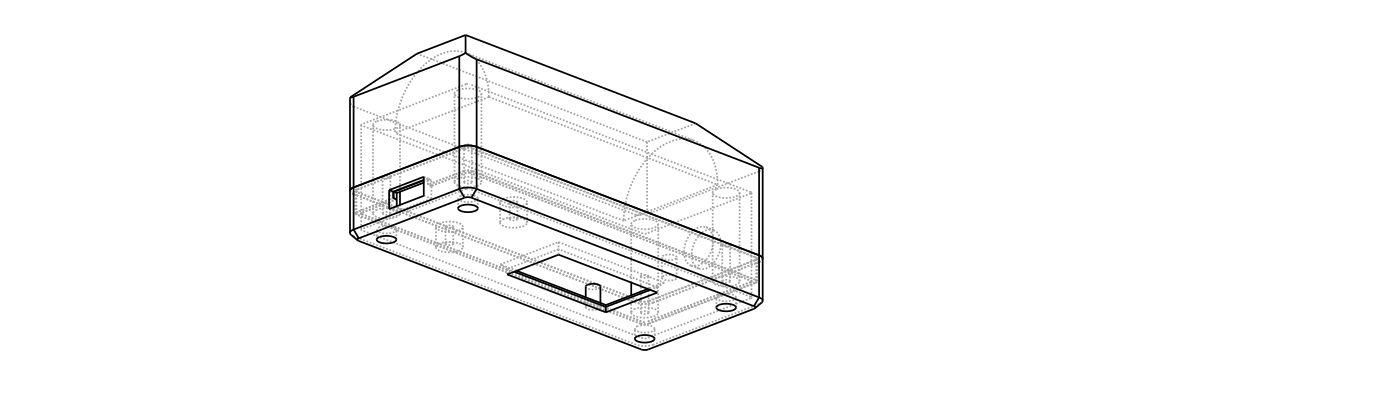
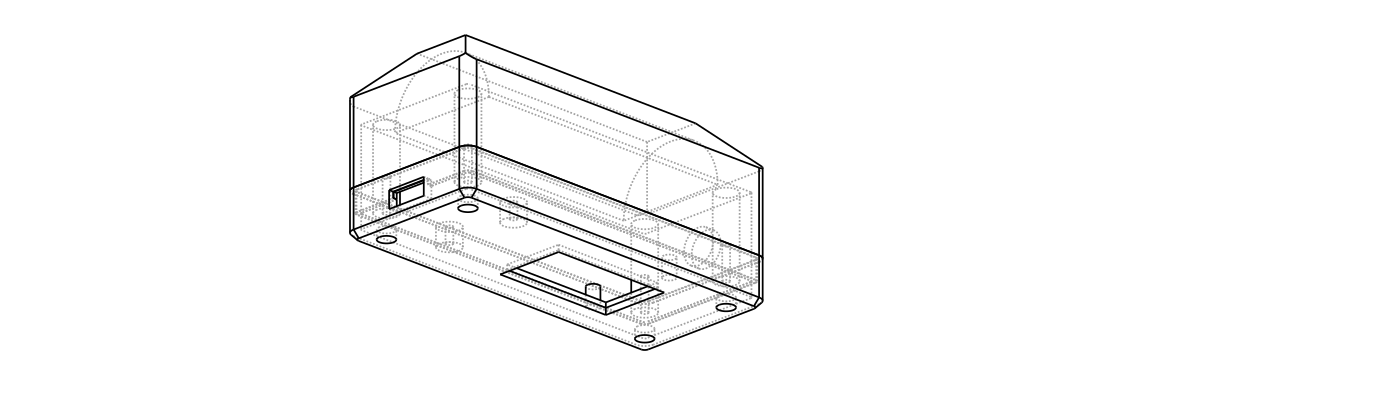
Move the display cutout's bevel to the face side, via .chamfer()
The bevel was on the inside face, which made it a 45 degree overhang
bridging inward across the opening when the plate is printed window-up.
On the face side the hole only ever widens with height, so every layer
is supported by the one below and there is no overhang at all.

Also switches from shaping the cutter to using CadQuery's .chamfer() on
the finished top edge, as suggested. The cutter is now a plain
rectangular prism, so the aperture is exactly OLED_W x OLED_H by
construction rather than by arithmetic on a loft. .faces(">Z").edges()
would also catch the plate's outer perimeter, so the window's four
edges are isolated with a BoxSelector.

Aperture is 28.48 x 14.84mm at the inside face, opening to
30.48 x 16.84mm at the visible surface, with a 1.2mm straight land
behind it. Angle is 45 degrees, matching FACE_CHAMFER.

verify.py now checks the aperture at the inside face and the bevelled
opening at the outer face (the reverse of before), and asserts the
opening widens monotonically through the wall so the no-overhang
property is enforced rather than assumed.

Changed region(s): [[0.3379, 0.5881, 0.4914, 0.7429]]

diff --git a/verify.py b/verify.py
@@ -345,9 +345,9 @@ for (x, y) in case.screw_positions:
 
 print("Checking the face plate chamfers...")
 top_wall = case.PLATE_DEPTH - case.PLATE_INNER_H
-check("window flare leaves a straight land",
+check("window bevel leaves a straight land",
       case.WINDOW_CHAMFER < top_wall,
-      f"flare {case.WINDOW_CHAMFER:.2f} of {top_wall:.2f} mm wall, "
+      f"bevel {case.WINDOW_CHAMFER:.2f} of {top_wall:.2f} mm wall, "
       f"land {top_wall - case.WINDOW_CHAMFER:.2f} mm")
 
 # Measure the real opening at the outer face and at the ceiling
@@ -356,38 +356,64 @@ def _window_opening(z, t=0.02):
         cq.Workplane("XY")
         .workplane(offset=z)
         .center(case.OLED_CENTER_X, case.OLED_CENTER_Y)
-        .box(case.OLED_W + 20, case.OLED_H + 8, t, centered=(True, True, False))
+        .box(case.OLED_W + 20, case.OLED_H + 12, t, centered=(True, True, False))
     )
     hole = slab.cut(case.build_plate())
     return hole.val().BoundingBox() if volume(hole) > 0 else None
 
-_outer = _window_opening(case.PLATE_DEPTH - 0.03)
-check("window is nominal size at the outer face",
-      _outer is not None and abs(_outer.xlen - case.OLED_W) <= 0.05
-      and abs(_outer.ylen - case.OLED_H) <= 0.05,
-      f"{_outer.xlen:.2f} x {_outer.ylen:.2f} vs "
-      f"{case.OLED_W:.2f} x {case.OLED_H:.2f}" if _outer else "no opening")
-
+# The bevel is on the face side, so the aperture is the *inside* face and
+# the opening only ever widens toward the viewer.
 _inner = _window_opening(case.PLATE_INNER_H + 0.01)
+check("aperture is nominal at the inside face",
+      _inner is not None and abs(_inner.xlen - case.OLED_W) <= 0.05
+      and abs(_inner.ylen - case.OLED_H) <= 0.05,
+      f"{_inner.xlen:.2f} x {_inner.ylen:.2f} vs "
+      f"{case.OLED_W:.2f} x {case.OLED_H:.2f}" if _inner else "no opening")
+
+_outer = _window_opening(case.PLATE_DEPTH - 0.03)
 _want_w = case.OLED_W + 2 * case.WINDOW_CHAMFER
 _want_h = case.OLED_H + 2 * case.WINDOW_CHAMFER
-check("window is flared at the inside face",
-      _inner is not None and abs(_inner.xlen - (_want_w - 0.02)) <= 0.05
-      and abs(_inner.ylen - (_want_h - 0.02)) <= 0.05,
-      f"{_inner.xlen:.2f} x {_inner.ylen:.2f} vs "
-      f"{_want_w:.2f} x {_want_h:.2f}" if _inner else "no opening")
+check("window is bevelled open at the face",
+      _outer is not None and abs(_outer.xlen - (_want_w - 0.02)) <= 0.05
+      and abs(_outer.ylen - (_want_h - 0.02)) <= 0.05,
+      f"{_outer.xlen:.2f} x {_outer.ylen:.2f} vs "
+      f"{_want_w:.2f} x {_want_h:.2f}" if _outer else "no opening")
 
-# The flare must not undercut the OLED's own active area
-check("flare stays clear of the active area",
+# Printed window-up the hole must never narrow with height, or the bevel
+# would be an overhang. This is the property the face-side bevel buys us.
+_prev = None
+_monotonic = True
+for i in range(21):
+    _z = case.PLATE_INNER_H + (top_wall - 0.02) * i / 20.0
+    _bb = _window_opening(_z)
+    if _bb is None:
+        _monotonic = False
+        break
+    if _prev is not None and (_bb.xlen < _prev[0] - 1e-6 or _bb.ylen < _prev[1] - 1e-6):
+        _monotonic = False
+        break
+    _prev = (_bb.xlen, _bb.ylen)
+check("window never narrows with height (no overhang)", _monotonic,
+      "opening widens monotonically from inside face to outer face")
+
+# The aperture must not encroach on the OLED's own active area
+check("aperture clears the active area",
       case.OLED_W - 2 * case.OLED_WINDOW_MARGIN >= case.OLED_ACTIVE_W - CLEAR_TOL,
-      f"window {case.OLED_W:.2f} vs active {case.OLED_ACTIVE_W:.2f} mm")
+      f"aperture {case.OLED_W:.2f} vs active {case.OLED_ACTIVE_W:.2f} mm")
 
-# The flare widens the hole toward the board -- it must miss the posts
-flare_hw_y = (case.OLED_H + 2 * case.WINDOW_CHAMFER) / 2
-check("window flare clears the bearing posts",
-      flare_hw_y <= case.BEAR_POST_Y - case.BEAR_POST_D / 2,
-      f"flare reaches Y {flare_hw_y:.2f}, posts start at "
+# The aperture is the widest thing the window presents to the board side
+check("window clears the bearing posts",
+      case.OLED_H / 2 <= case.BEAR_POST_Y - case.BEAR_POST_D / 2,
+      f"aperture reaches Y {case.OLED_H / 2:.2f}, posts start at "
       f"{case.BEAR_POST_Y - case.BEAR_POST_D / 2:.2f} mm")
+
+# The bevelled opening must stay on the top face, clear of the face chamfer
+_top_face_bb = case.build_plate().faces(">Z").val().BoundingBox()
+check("bevelled window stays within the top face",
+      _want_h / 2 <= _top_face_bb.ylen / 2 - CLEAR_TOL
+      and _want_w / 2 <= _top_face_bb.xlen / 2 - CLEAR_TOL,
+      f"window {_want_w:.2f} x {_want_h:.2f} within top face "
+      f"{_top_face_bb.xlen:.2f} x {_top_face_bb.ylen:.2f} mm")
 
 # Face chamfer must leave the counterbores fully on the flat top face
 top_face = case.build_plate().faces(">Z").val().BoundingBox()

diff --git a/case.py b/case.py
@@ -104,10 +104,11 @@ CORNER_FILLET = 2.5
 # --- Face plate chamfers ----------------------------------------------------
 # Break the face plate's top outer edge so the case does not read as a slab.
 FACE_CHAMFER = 1.5
-# The display cutout is flared on its *inside* face: the opening is narrowest
-# at the outer surface (crisp bezel) and widens toward the display, so the
-# panel is not vignetted at an angle. Must stay below the top wall thickness
-# or there is no straight land left at the window edge.
+# The display cutout is bevelled on its *face* side, matching FACE_CHAMFER's
+# 45 deg. The aperture stays OLED_W x OLED_H at the inside face and opens out
+# toward the viewer. Printed window-up the hole only ever widens with height,
+# so every layer is supported by the one below -- no overhang at all. Must
+# stay below the top wall thickness or no straight land is left.
 WINDOW_CHAMFER = 1.0
 
 # --- Bottom chamfer (base only) ---------------------------------------------
@@ -385,32 +386,16 @@ def end_chamfer_profile():
 
 
 def _oled_window_cutter():
-    """Display cutout, in plate-local coordinates.
-
-    A straight land through the outer part of the top wall, plus a 45 deg
-    flare on the inside face. The taper is extended below the ceiling so the
-    boolean never has to resolve a face coplanar with it, while the flare
-    still passes through exactly OLED_W + 2*WINDOW_CHAMFER at the ceiling.
-    """
-    c = WINDOW_CHAMFER
-    ext = 0.5
-    flare = (
+    """Display cutout, in plate-local coordinates: a plain rectangular hole
+    through the top wall. The bevel is added afterwards by chamfering the
+    resulting top edge, not by shaping this cutter."""
+    return (
         cq.Workplane("XY")
-        .workplane(offset=PLATE_INNER_H - ext)
-        .center(OLED_CENTER_X, OLED_CENTER_Y)
-        .rect(OLED_W + 2 * (c + ext), OLED_H + 2 * (c + ext))
-        .workplane(offset=c + ext)
-        .rect(OLED_W, OLED_H)
-        .loft(ruled=True)
-    )
-    land = (
-        cq.Workplane("XY")
-        .workplane(offset=PLATE_INNER_H + c)
+        .workplane(offset=PLATE_INNER_H - 1)
         .center(OLED_CENTER_X, OLED_CENTER_Y)
         .rect(OLED_W, OLED_H)
-        .extrude(PLATE_DEPTH - (PLATE_INNER_H + c) + 1)
+        .extrude(PLATE_DEPTH - PLATE_INNER_H + 2)
     )
-    return flare.union(land)
 
 
 def _usb_cutter():
@@ -552,8 +537,29 @@ def build_plate():
             .extrude(post_h)
         )
 
-    # OLED window through the top face, flared on the inside
+    # OLED window through the top face, then bevel its outer edge. Using the
+    # chamfer tool on the finished edge keeps the cutter a plain prism, so
+    # the aperture stays exactly OLED_W x OLED_H at its narrowest.
+    #
+    # .faces(">Z").edges() would also pick up the plate's outer perimeter, so
+    # the window's four edges are isolated with a box selector around them.
     plate = plate.cut(_oled_window_cutter())
+    _pad = WINDOW_CHAMFER + 1.0
+    plate = (
+        plate.faces(">Z")
+        .edges(
+            cq.selectors.BoxSelector(
+                (OLED_CENTER_X - OLED_W / 2 - _pad,
+                 OLED_CENTER_Y - OLED_H / 2 - _pad,
+                 PLATE_DEPTH - 1.0),
+                (OLED_CENTER_X + OLED_W / 2 + _pad,
+                 OLED_CENTER_Y + OLED_H / 2 + _pad,
+                 PLATE_DEPTH + 1.0),
+                boundingbox=True,
+            )
+        )
+        .chamfer(WINDOW_CHAMFER)
+    )
 
     # Screw clearance holes with socket-head counterbores
     for (x, y) in screw_positions:

diff --git a/README.md b/README.md
@@ -66,8 +66,8 @@ The two halves divide the job cleanly:
     between the two.
   - Four M2 clearance holes with socket-head counterbores.
   - A skirt that closes over the base's tongue.
-  - A **1.5 mm chamfer around the top outer edge**, and a **1 mm flare on
-    the inside of the display cutout** (see below).
+  - A **1.5 mm chamfer around the top outer edge**, and a matching **1 mm
+    bevel on the face side of the display cutout** (see below).
 
 The **USB-C opening straddles the parting line**, so it is cut from both
 halves from a single shared cutter.
@@ -127,18 +127,25 @@ Two separate chamfers, for different reasons:
   83.5 × 32.5 mm, which still leaves the M2 counterbores (outer edge at
   13.75 mm) fully on the flat, with 2.5 mm to spare.
 
-- **`WINDOW_CHAMFER` (1.0 mm)** flares the display cutout on its **inside**
-  face. The opening is narrowest at the outer surface, giving a crisp bezel
-  at 28.48 × 14.84 mm, and widens to 30.48 × 16.84 mm at the ceiling so the
-  panel isn't vignetted when viewed at an angle. With a 2.2 mm top wall
-  that leaves a **1.2 mm straight land** at the window edge.
+- **`WINDOW_CHAMFER` (1.0 mm)** bevels the display cutout on its **face**
+  side, at the same 45° as the perimeter chamfer. The aperture is
+  28.48 × 14.84 mm at the inside face and opens out to 30.48 × 16.84 mm at
+  the visible surface. With a 2.2 mm top wall that leaves a **1.2 mm
+  straight land** behind the aperture.
 
-The window is cut as a single lofted solid rather than by chamfering edges
-after the fact, which is far more robust. Its taper is deliberately extended
-0.5 mm below the ceiling so the boolean never has to resolve a face coplanar
-with it, while the flare still passes through exactly
-`OLED_W + 2 × WINDOW_CHAMFER` *at* the ceiling. `verify.py` measures the
-real opening at both faces rather than trusting that.
+Putting the bevel on the face side rather than the inside means the hole
+**only ever widens with height**. Printed window-up, every layer is
+supported by the one below, so there is no overhang anywhere in the
+window — unlike an inside flare, which would have to bridge inward across
+the opening. `verify.py` asserts this directly by sampling the opening
+through the wall and requiring it to widen monotonically.
+
+The bevel is produced with CadQuery's `.chamfer()` on the finished top
+edge, so the cutter stays a plain rectangular prism and the aperture is
+exactly `OLED_W × OLED_H` by construction. `.faces(">Z").edges()` would
+also catch the plate's outer perimeter, so the window's four edges are
+isolated with a `BoxSelector` around them. `verify.py` measures the real
+opening at both faces rather than trusting any of that.
 
 ### Why the board hangs from the plate
 
@@ -209,9 +216,10 @@ body, then checks:
   every boss pilot hole is checked since the chamfers cut the bosses'
   lower corners.
 - **Face plate chamfers** — the window's real opening is measured at both
-  the outer and inside faces, the flare leaves a straight land and clears
-  the bearing posts, and the face chamfer leaves the counterbores on the
-  flat without breaching the plate ceiling.
+  the outer and inside faces, the opening widens monotonically through the
+  wall (so the bevel is never an overhang), the aperture leaves a straight
+  land and clears the bearing posts, and the face chamfer leaves the
+  counterbores on the flat without breaching the plate ceiling.
 - **Design clearances** — cell slack, cell-to-board gap, screw-head
   clearance over the cell, bosses clearing the shaft, SMA body clearing the
   cell end, SMA hole landing in solid wall, bearing posts threading the gap
@@ -236,9 +244,9 @@ All checks currently pass. Key measured clearances:
 | Chamfer overhang | 45.0° (limit 45°) |
 | Flat the case stands on | 66.38 × 14.00 mm |
 | End chamfer wall over the bore end | 2.20 mm (min 2.20) |
-| Window at outer face | 28.48 × 14.84 mm |
-| Window at inside face (flared) | 30.46 × 16.82 mm |
-| Straight land at window edge | 1.20 mm |
+| Window aperture (inside face) | 28.48 × 14.84 mm |
+| Window at face side (bevelled) | 30.46 × 16.82 mm |
+| Straight land behind the aperture | 1.20 mm |
 | Face chamfer to counterbore | 16.25 vs 13.75 mm |
 
 Note that a zero-overlap result alone would also be satisfied by a part
@@ -266,7 +274,7 @@ thickness, component heights, and connector positions.
 | `BEAR_POST_Y` | Bearing posts; must clear `OLED_MODULE_H/2` and stay inside `BOARD_W/2` |
 | `CHAMFER_ASPECT`, `MIN_BOTTOM_W` | Bottom chamfer: slope and standing flat |
 | `END_CHAMFER_ASPECT`, `MIN_BOTTOM_L` | End chamfer: slope and standing flat |
-| `FACE_CHAMFER`, `WINDOW_CHAMFER` | Face plate edge break and display-cutout flare |
+| `FACE_CHAMFER`, `WINDOW_CHAMFER` | Face plate edge break and display-cutout bevel |
 
 `OLED_ACTIVE_H` is *derived* from the dimensioned active width assuming a
 128×64 panel; if your display differs, set it directly.
@@ -303,9 +311,9 @@ Writes to `output/`:
   support moved off the base, the cradle bore is now a plain half-round
   trough with no overhang beyond its own arc — no support needed.
 - The plate's posts print as simple vertical pillars in that orientation.
-- With the plate printed window-up, the display cutout's inside flare is a
-  45° overhang bridging inward across the opening — short enough to bridge
-  cleanly, but drop `WINDOW_CHAMFER` if your printer struggles with it.
+- The display cutout's bevel is on the face side, so printed window-up the
+  opening only widens as it rises — no overhang and no bridging anywhere in
+  the window.
 - The base is ~29 cm³ of enclosed volume including the cradle pedestal —
   print it with modest infill rather than solid.
 - Both bottom chamfers print as 45° expanding overhangs straight off the
